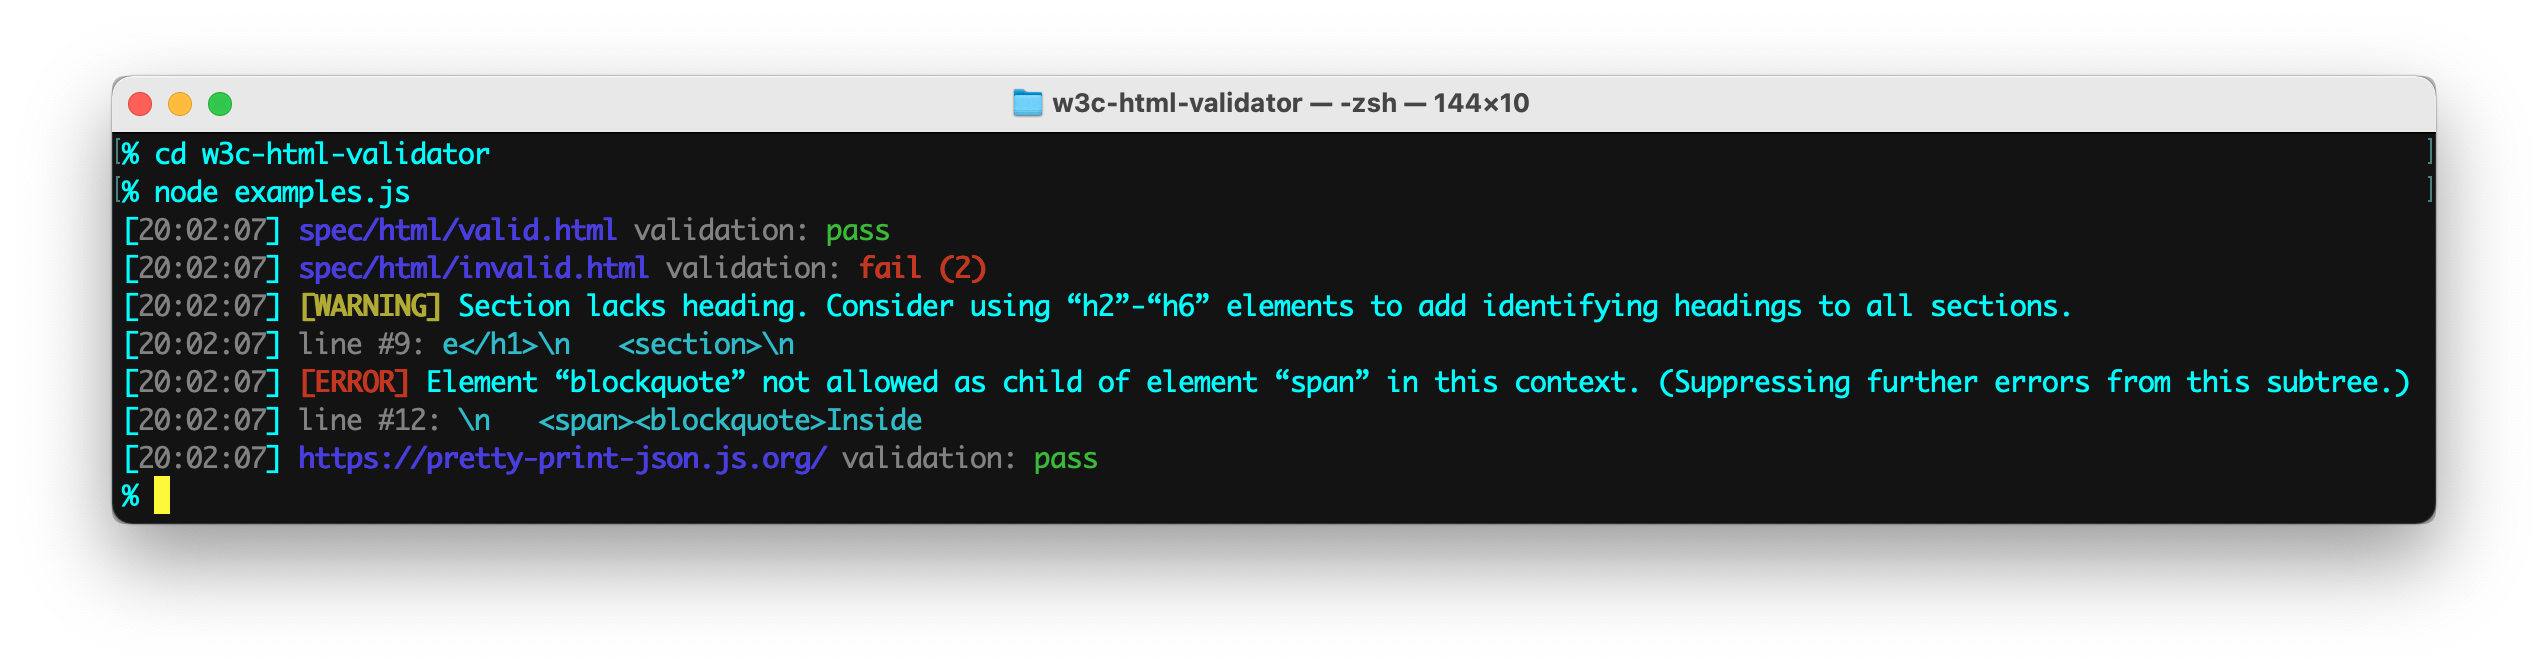
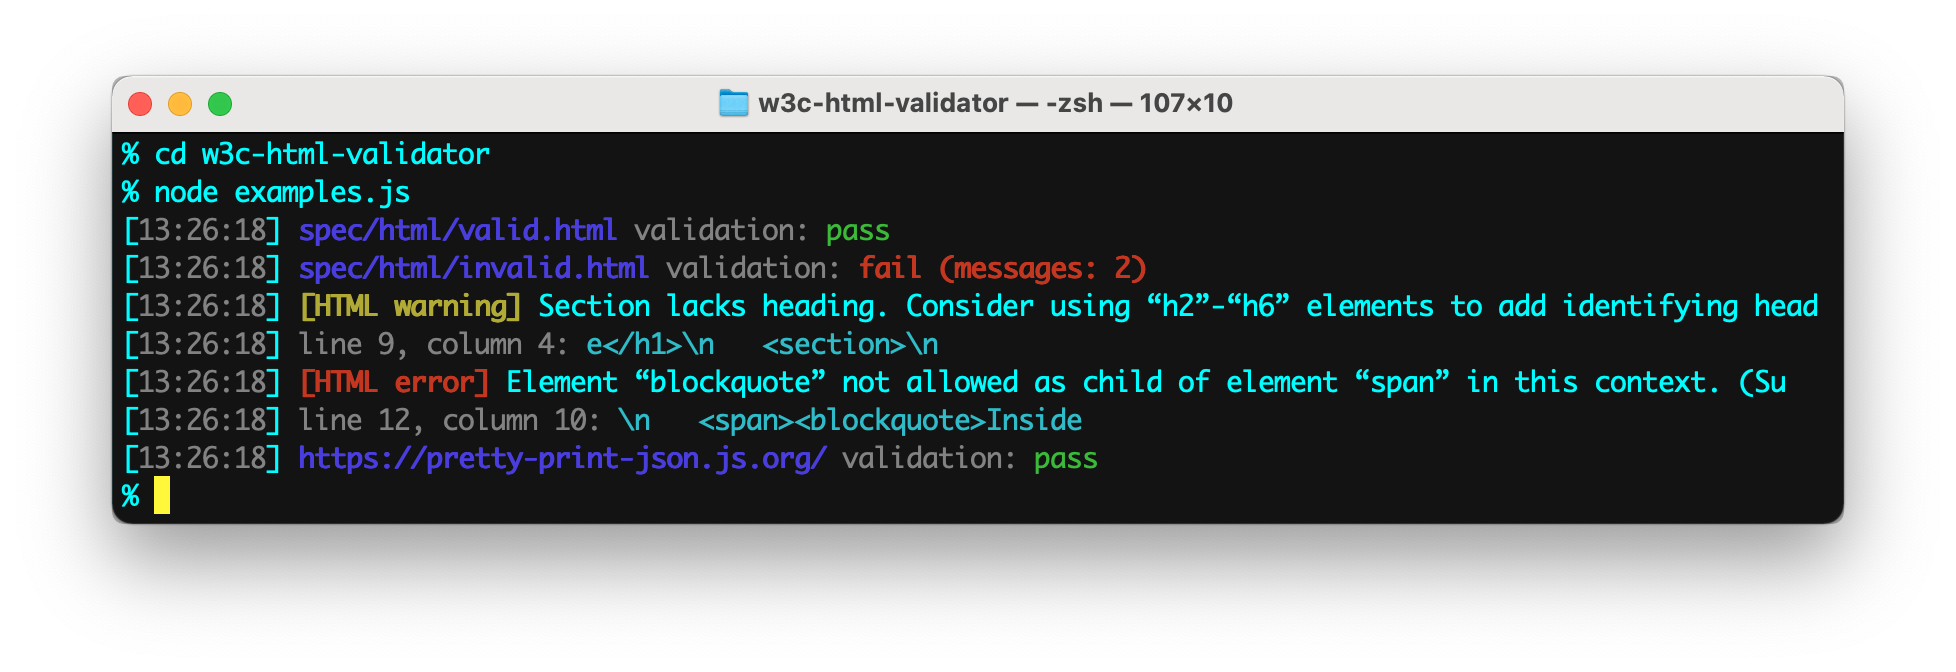
Add maxMessageLen option

Changed region(s): [[0.0312, 0.125, 0.9668, 0.7812], [0.343, 0.125, 0.6237, 0.1875]]

diff --git a/w3c-html-validator.ts b/w3c-html-validator.ts
@@ -35,6 +35,9 @@ export type ValidatorResults = {
    messages:  ValidatorResultsMessage[] | null,
    display:   string | null,
    };
+export type ReporterOptions = {
+   maxMessageLen?: number,  //trim validation messages to not exceed a maximum length
+   };
 
 const w3cHtmlValidator = {
 
@@ -82,10 +85,14 @@ const w3cHtmlValidator = {
          }));
       },
 
-   reporter(results: ValidatorResults): ValidatorResults {
+   reporter(results: ValidatorResults, options?: ReporterOptions): ValidatorResults {
+      const defaults = {
+         maxMessageLen: null,
+         };
+      const settings = { ...defaults, ...options };
       if (typeof results?.validates !== 'boolean')
          throw Error('[w3c-html-validator] Invalid parameter for reporter(): ' + String(results));
-      const fail =   'fail (' + results.messages!.length  + ')';
+      const fail =   'fail (messages: ' + results.messages!.length  + ')';
       const status = results.validates ? color.green('pass') : color.red.bold(fail);
       log(color.blue.bold(results.title), color.gray('validation:'), status);
       const typeColorMap = {
@@ -98,7 +105,8 @@ const w3cHtmlValidator = {
          const typeColor = typeColorMap[type] || color.magenta.bold;
          const lineNum =   `line ${message.lastLine}, column ${message.firstColumn}:`;
          const lineText =  message.extract.replace(/\n/g, '\\n');
-         log(typeColor('[HTML ' + type + ']'), message.message);
+         const maxLen =    settings.maxMessageLen ?? undefined;
+         log(typeColor('[HTML ' + type + ']'), message.message.substring(0, maxLen));
          log(color.gray(lineNum), color.cyan(lineText));
          };
       results.messages!.forEach(logMessage);

diff --git a/examples.js b/examples.js
@@ -7,11 +7,12 @@
 import { w3cHtmlValidator } from './dist/w3c-html-validator.js';
 
 // Formatted output
-w3cHtmlValidator.validate({ website: 'https://pretty-print-json.js.org/' }).then(w3cHtmlValidator.reporter);
+const customReporter = (results) => w3cHtmlValidator.reporter(results, { maxMessageLen: 80 });
+w3cHtmlValidator.validate({ website:  'https://pretty-print-json.js.org/' }).then(w3cHtmlValidator.reporter);
 w3cHtmlValidator.validate({ filename: 'spec/html/valid.html' }).then(w3cHtmlValidator.reporter);
-w3cHtmlValidator.validate({ filename: 'spec/html/invalid.html' }).then(w3cHtmlValidator.reporter);
+w3cHtmlValidator.validate({ filename: 'spec/html/invalid.html' }).then(customReporter);
 
 // JSON output
 const sleep = (data) => new Promise(resolve => setTimeout(() => resolve(data), 1000));
-const log = (results) => console.log('\nValidatorResults:', results);
+const log =   (results) => console.log('\nValidatorResults:', results);
 w3cHtmlValidator.validate({ filename: 'spec/html/invalid.html' }).then(sleep).then(log);

diff --git a/README.md b/README.md
@@ -41,6 +41,7 @@ $ node examples.js
 width=800 alt=screenshot>
 
 ## 3) Options
+### validate()
 | Name (key) | Type       | Default                          | Description                  |
 | :--------- | :--------- | :------------------------------- | :--------------------------- |
 | `html`     | **string** | `null`                           | HTML string to validate.     |
@@ -48,6 +49,10 @@ width=800 alt=screenshot>
 | `website`  | **string** | `null`                           | URL of website to validate.  |
 | `checkUrl` | **string** | `'https://validator.w3.org/nu/'` | W3C validation API endpoint. |
 | `output`   | **string** | `'json'`                         | Get results as an array (`'json'`) or as a web page (`'html'`). |
+### reporter()
+| Name (key)      | Type       | Default | Description                                              |
+| :-------------- | :--------- | :------ | :------------------------------------------------------- |
+| `maxMessageLen` | **number** | `null`  | Trim validation messages to not exceed a maximum length. |
 
 ## 4) TypeScript Declarations
 The **TypeScript Declaration File** file is [w3c-html-validator.d.ts](dist/w3c-html-validator.d.ts)
